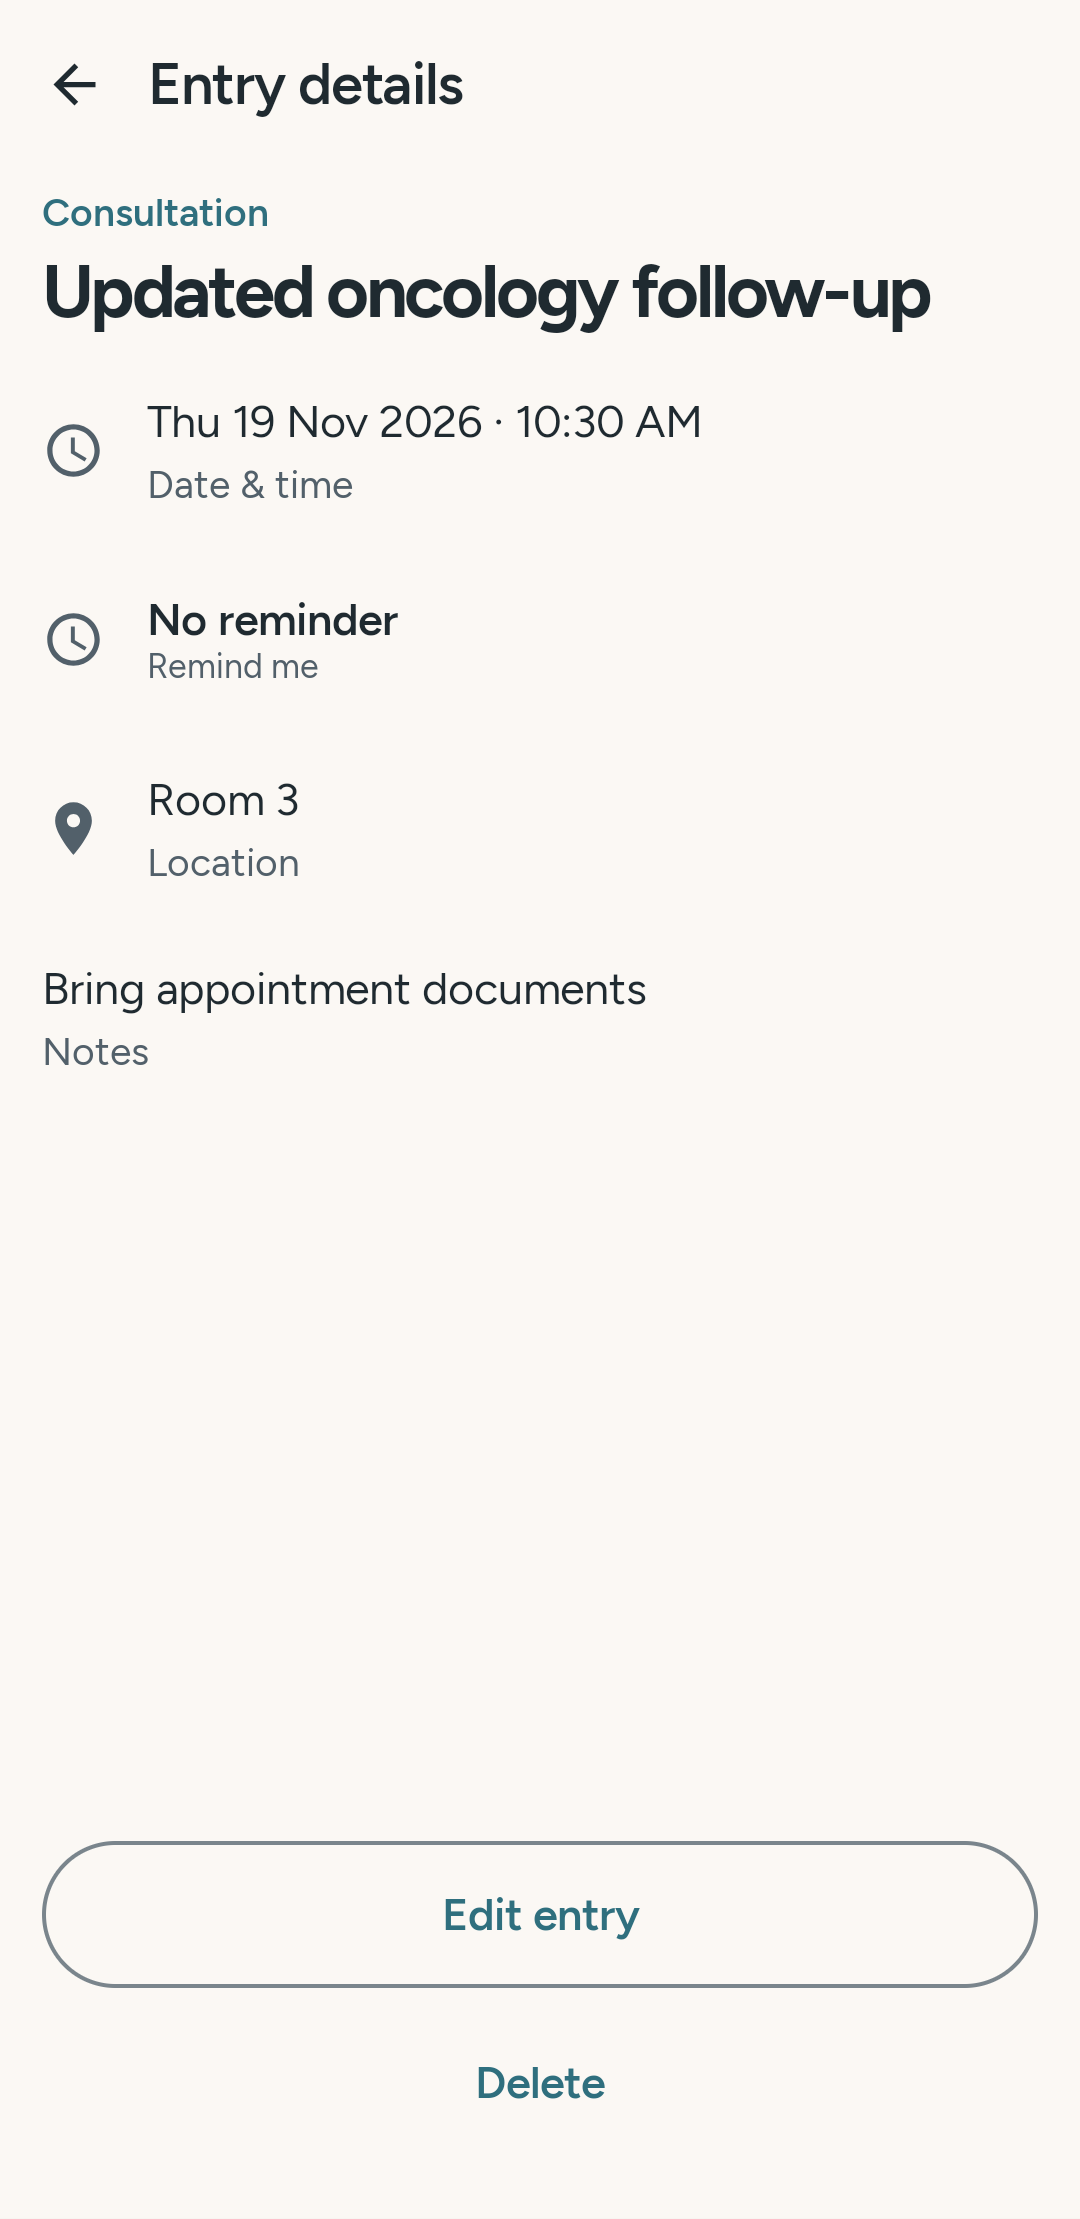
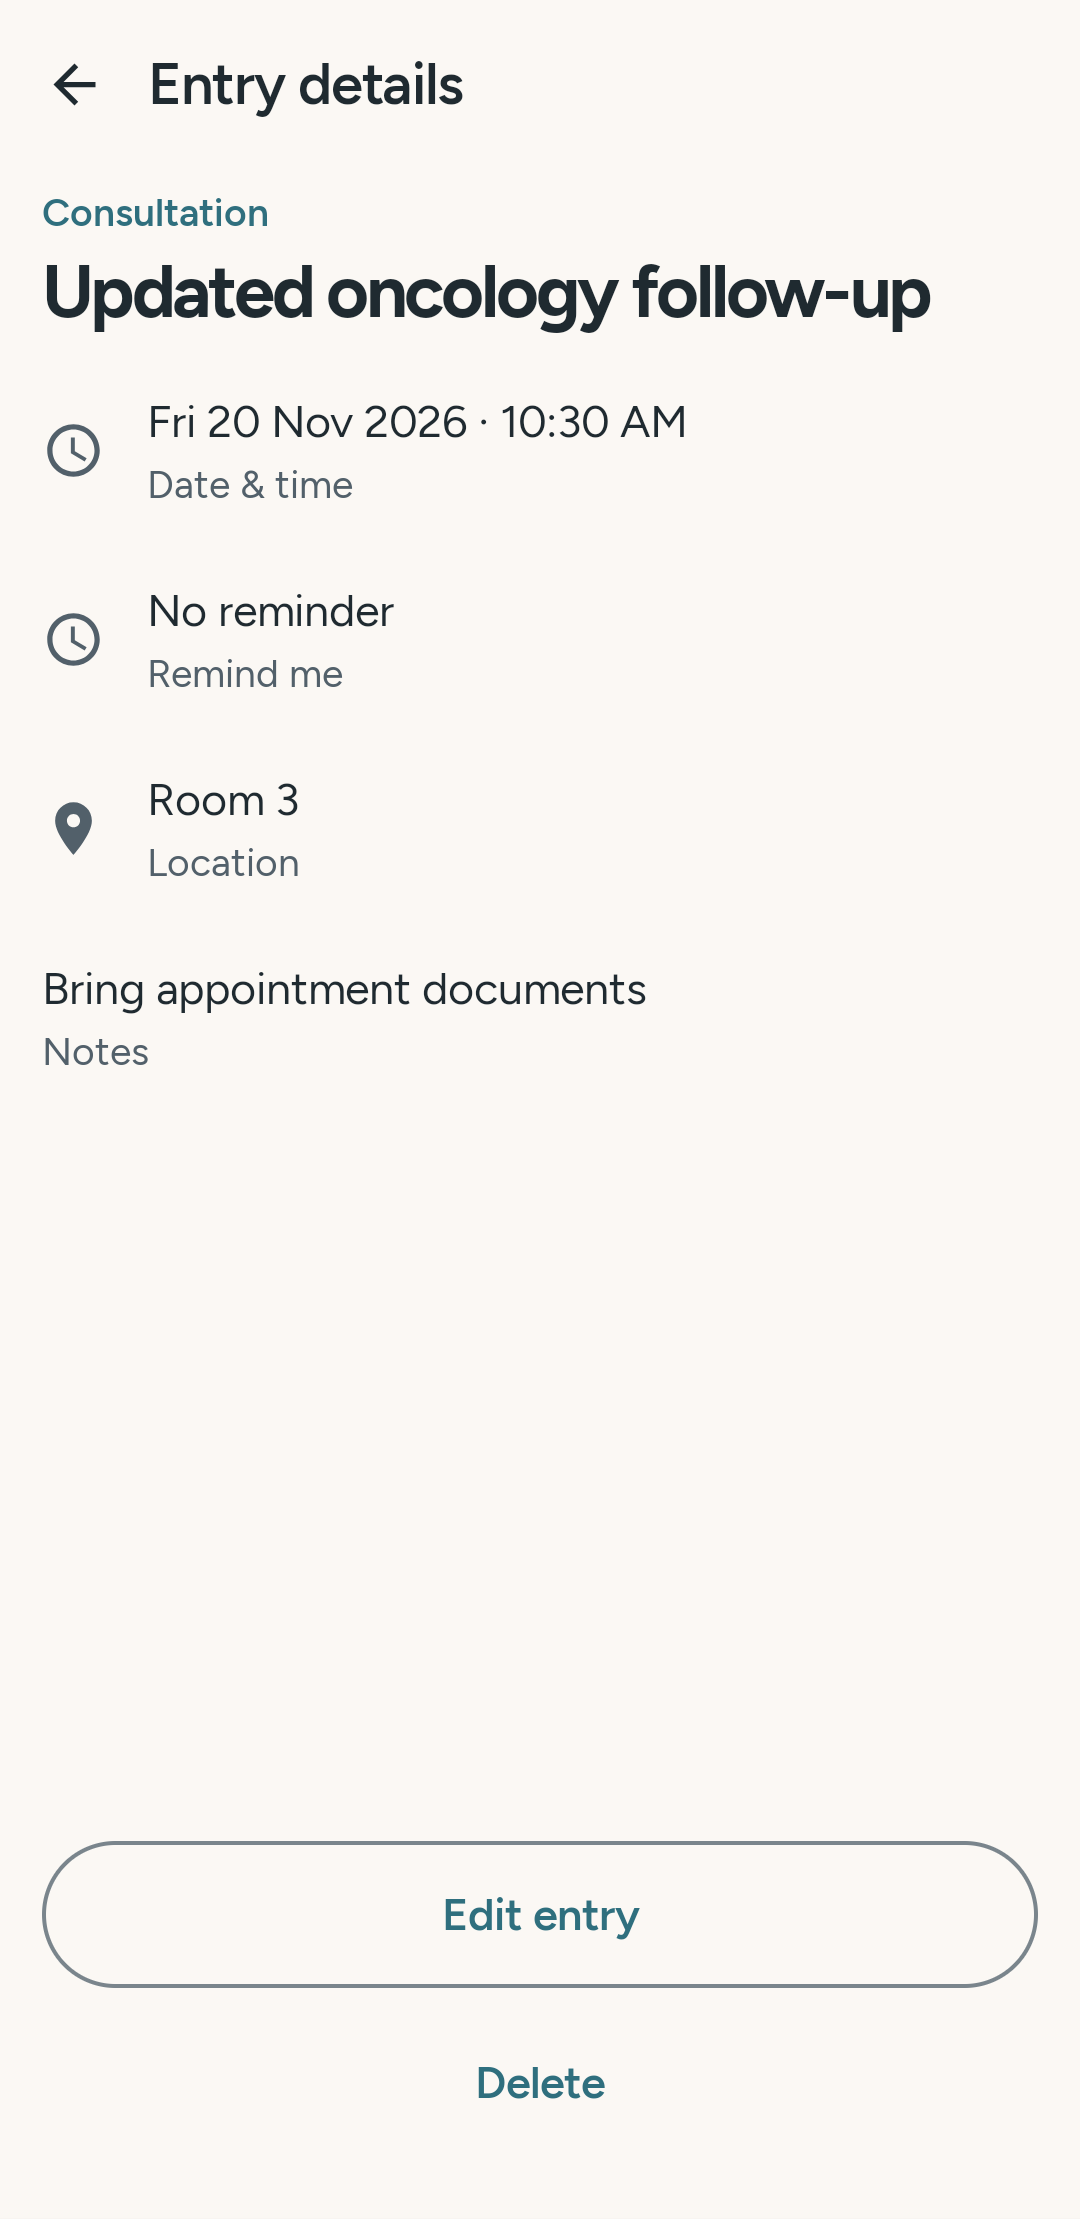
fix: address reminder UI review feedback

Changed region(s): [[0.1833, 0.1866, 0.6417, 0.2177], [0.1222, 0.2488, 0.3667, 0.311]]

diff --git a/app/src/test/java/com/github/se/oncompanion/ui/common/DeleteConfirmationDialogTest.kt b/app/src/test/java/com/github/se/oncompanion/ui/common/DeleteConfirmationDialogTest.kt
@@ -1,3 +1,4 @@
+// Co-authored-by: ChatGPT <noreply@openai.com>
 // Co-authored-by: Claude Code <noreply@anthropic.com>
 
 package com.github.se.oncompanion.ui.common
@@ -107,7 +108,7 @@ class DeleteConfirmationDialogTest {
     setContent()
 
     composeTestRule.onNodeWithTag(TAGS.confirm).assertIsEnabled().performClick()
-    composeTestRule.onNodeWithTag(TAGS.cancel).assertIsEnabled().performClick()
+    composeTestRule.onNodeWithTag(requireNotNull(TAGS.cancel)).assertIsEnabled().performClick()
 
     assertEquals(1, confirms)
     assertEquals(1, cancels)
@@ -128,7 +129,7 @@ class DeleteConfirmationDialogTest {
     setContent(isDeleting = true)
 
     composeTestRule.onNodeWithTag(TAGS.confirm).assertIsNotEnabled().performClick()
-    composeTestRule.onNodeWithTag(TAGS.cancel).assertIsNotEnabled().performClick()
+    composeTestRule.onNodeWithTag(requireNotNull(TAGS.cancel)).assertIsNotEnabled().performClick()
 
     assertEquals(0, confirms)
     assertEquals(0, cancels)
@@ -182,8 +183,9 @@ class DeleteConfirmationDialogTest {
     setContent()
 
     composeTestRule.onNodeWithTag(TAGS.confirm).assertHeightIsEqualTo(56.dp)
-    composeTestRule.onNodeWithTag(TAGS.cancel).assertHeightIsEqualTo(56.dp)
-    val cancel = composeTestRule.onNodeWithTag(TAGS.cancel).getUnclippedBoundsInRoot()
+    composeTestRule.onNodeWithTag(requireNotNull(TAGS.cancel)).assertHeightIsEqualTo(56.dp)
+    val cancel =
+        composeTestRule.onNodeWithTag(requireNotNull(TAGS.cancel)).getUnclippedBoundsInRoot()
     val confirm = composeTestRule.onNodeWithTag(TAGS.confirm).getUnclippedBoundsInRoot()
     assertEquals(cancel.top, confirm.top)
     assertEquals(cancel.right, confirm.left)
@@ -194,7 +196,8 @@ class DeleteConfirmationDialogTest {
     setContent(isDeleting = true)
 
     val spinner = composeTestRule.onNodeWithTag(C.Tag.dialog_progress).getUnclippedBoundsInRoot()
-    val cancel = composeTestRule.onNodeWithTag(TAGS.cancel).getUnclippedBoundsInRoot()
+    val cancel =
+        composeTestRule.onNodeWithTag(requireNotNull(TAGS.cancel)).getUnclippedBoundsInRoot()
     assertEquals(cancel.left, spinner.right)
     assertStyle("Delete", typography.buttonLabel, primaryText)
   }
@@ -206,7 +209,8 @@ class DeleteConfirmationDialogTest {
     setContent(confirmLabel = "Delete it for good", cancelLabel = "Keep this item")
 
     val confirm = composeTestRule.onNodeWithTag(TAGS.confirm).getUnclippedBoundsInRoot()
-    val cancel = composeTestRule.onNodeWithTag(TAGS.cancel).getUnclippedBoundsInRoot()
+    val cancel =
+        composeTestRule.onNodeWithTag(requireNotNull(TAGS.cancel)).getUnclippedBoundsInRoot()
     assertEquals(confirm.bottom, cancel.top)
     assertEquals(confirm.right, cancel.right)
   }
@@ -219,7 +223,8 @@ class DeleteConfirmationDialogTest {
 
     val dialog = composeTestRule.onNodeWithTag(TAGS.dialog).getUnclippedBoundsInRoot()
     val spinner = composeTestRule.onNodeWithTag(C.Tag.dialog_progress).getUnclippedBoundsInRoot()
-    val cancel = composeTestRule.onNodeWithTag(TAGS.cancel).getUnclippedBoundsInRoot()
+    val cancel =
+        composeTestRule.onNodeWithTag(requireNotNull(TAGS.cancel)).getUnclippedBoundsInRoot()
     assertTrue(spinner.left >= dialog.left)
     assertEquals(cancel.left, spinner.right)
     assertTrue(spinner.top >= cancel.top && spinner.bottom <= cancel.bottom)
@@ -232,7 +237,7 @@ class DeleteConfirmationDialogTest {
     setContent(hasError = true, message = "You can't undo this. ".repeat(6))
 
     composeTestRule.onNodeWithTag(TAGS.confirm).assertIsFullyVisible()
-    composeTestRule.onNodeWithTag(TAGS.cancel).assertIsFullyVisible()
+    composeTestRule.onNodeWithTag(requireNotNull(TAGS.cancel)).assertIsFullyVisible()
   }
 
   private companion object {

diff --git a/app/src/test/java/com/github/se/oncompanion/ui/common/LakeDialogTest.kt b/app/src/test/java/com/github/se/oncompanion/ui/common/LakeDialogTest.kt
@@ -1,3 +1,4 @@
+// Co-authored-by: ChatGPT <noreply@openai.com>
 // Co-authored-by: Claude Code <noreply@anthropic.com>
 
 package com.github.se.oncompanion.ui.common
@@ -12,10 +13,12 @@ import androidx.compose.ui.Modifier
 import androidx.compose.ui.graphics.Color
 import androidx.compose.ui.platform.testTag
 import androidx.compose.ui.test.SemanticsNodeInteraction
+import androidx.compose.ui.test.assertCountEquals
 import androidx.compose.ui.test.assertIsDisplayed
 import androidx.compose.ui.test.assertIsFocused
 import androidx.compose.ui.test.assertIsNotEnabled
 import androidx.compose.ui.test.junit4.v2.createComposeRule
+import androidx.compose.ui.test.onAllNodesWithText
 import androidx.compose.ui.test.onNodeWithTag
 import androidx.compose.ui.test.onNodeWithText
 import androidx.compose.ui.test.performClick
@@ -86,7 +89,7 @@ class LakeDialogTest {
 
     composeTestRule.onNodeWithTag(C.Tag.dialog_progress).assertIsDisplayed()
     composeTestRule.onNodeWithTag(TAGS.confirm).assertIsNotEnabled()
-    composeTestRule.onNodeWithTag(TAGS.cancel).assertIsNotEnabled()
+    composeTestRule.onNodeWithTag(requireNotNull(TAGS.cancel)).assertIsNotEnabled()
   }
 
   // E.g. "Stay signed in" when signing out would discard changes not yet saved online
@@ -94,7 +97,7 @@ class LakeDialogTest {
   fun focusCancel_putsTheFocusOnCancelFirst() {
     setContent(focusCancel = true)
 
-    composeTestRule.onNodeWithTag(TAGS.cancel).assertIsFocused()
+    composeTestRule.onNodeWithTag(requireNotNull(TAGS.cancel)).assertIsFocused()
   }
 
   // E.g. a tip to acknowledge, with a checkbox under its message
@@ -119,7 +122,7 @@ class LakeDialogTest {
       }
     }
 
-    composeTestRule.onNodeWithTag(TAGS.cancel).assertDoesNotExist()
+    composeTestRule.onNodeWithTag(requireNotNull(TAGS.cancel)).assertDoesNotExist()
     val message =
         composeTestRule.onNodeWithText("A photo taken sideways is read less well.").bounds()
     val content = composeTestRule.onNodeWithTag("content").bounds()
@@ -131,6 +134,33 @@ class LakeDialogTest {
 
     composeTestRule.onNodeWithTag(TAGS.confirm).performClick()
     assertEquals(1, confirmed)
+  }
+
+  /** A content-only dialog needs neither an empty message nor a placeholder cancel tag. */
+  @Test
+  fun omittedMessageAndCancelTagKeepContentAndActionsUsable() {
+    var cancelled = 0
+    var confirmed = 0
+    composeTestRule.setContent {
+      OncompanionTheme {
+        LakeDialog(
+            title = "Choose a reminder",
+            confirmLabel = "Choose",
+            cancelLabel = "Back",
+            onConfirm = { confirmed++ },
+            onCancel = { cancelled++ },
+            tags = DialogTags(dialog = "dialog", confirm = "confirm"),
+        ) {
+          Text("Reminder choices", Modifier.testTag("content"))
+        }
+      }
+    }
+    composeTestRule.onNodeWithTag("content").assertIsDisplayed()
+    composeTestRule.onAllNodesWithText("", useUnmergedTree = true).assertCountEquals(0)
+    composeTestRule.onNodeWithTag("confirm").performClick()
+    composeTestRule.onNodeWithText("Back").performClick()
+    assertEquals(1, confirmed)
+    assertEquals(1, cancelled)
   }
 
   private fun SemanticsNodeInteraction.bounds() = fetchSemanticsNode().boundsInRoot

diff --git a/app/src/main/java/com/github/se/oncompanion/ui/common/LakeDialog.kt b/app/src/main/java/com/github/se/oncompanion/ui/common/LakeDialog.kt
@@ -29,11 +29,11 @@ import androidx.compose.ui.unit.dp
 import com.github.se.oncompanion.resources.C
 import com.github.se.oncompanion.ui.theme.Spacing
 
-/** The test tags of a [LakeDialog], declared by each feature in `C.kt`. */
+/** Test tags declared in `C.kt`; [cancel] can be omitted when no tag is needed for that action. */
 class DialogTags(
     val dialog: String,
     val confirm: String,
-    val cancel: String,
+    val cancel: String? = null,
     val error: String = "",
 )
 
@@ -48,14 +48,15 @@ class DialogTags(
  * @param isDestructive makes [confirmLabel] red, for an action that can't be undone
  * @param focusCancel puts the focus on [cancelLabel] first, when it is the safer choice (e.g.
  *   staying signed in with changes not yet saved online)
- * @param content shown instead of an empty message, or under [message], scrolling with it, e.g. a
- *   "Don't show this again" checkbox
+ * @param message optional explanation; null shows only the supplied content
+ * @param content shown without a message, or under [message], scrolling with it, e.g. a "Don't show
+ *   this again" checkbox
  */
 @OptIn(ExperimentalMaterial3Api::class)
 @Composable
 fun LakeDialog(
     title: String,
-    message: String,
+    message: String? = null,
     confirmLabel: String,
     cancelLabel: String?,
     onConfirm: () -> Unit,
@@ -91,7 +92,7 @@ fun LakeDialog(
             Modifier.weight(1f, fill = false).verticalScroll(rememberScrollState()),
             verticalArrangement = Arrangement.spacedBy(Spacing.md),
         ) {
-          if (message.isNotEmpty())
+          if (message != null)
               Text(
                   message,
                   style = MaterialTheme.typography.bodyMedium,
@@ -120,7 +121,10 @@ fun LakeDialog(
                     onClick = onCancel,
                     style = LakeButtonStyle.Text,
                     enabled = !isWorking,
-                    modifier = Modifier.testTag(tags.cancel).focusRequester(cancelFocus),
+                    modifier =
+                        (tags.cancel?.let { Modifier.testTag(it) } ?: Modifier).focusRequester(
+                            cancelFocus
+                        ),
                 )
               } else Spacer(Modifier)
             },

diff --git a/app/src/test/java/com/github/se/oncompanion/ui/appointment/AppointmentDetailScreenTest.kt b/app/src/test/java/com/github/se/oncompanion/ui/appointment/AppointmentDetailScreenTest.kt
@@ -26,6 +26,8 @@ import com.github.se.oncompanion.ui.SMALL_LANDSCAPE_PHONE
 import com.github.se.oncompanion.ui.assertIsFullyVisible
 import com.github.se.oncompanion.ui.auth.FakeAuthRepository
 import com.github.se.oncompanion.ui.common.DeletePhase
+import com.github.se.oncompanion.ui.textLayout
+import com.github.se.oncompanion.ui.theme.OncompanionTheme
 import java.time.*
 import java.util.Locale
 import kotlinx.coroutines.test.runTest
@@ -61,6 +63,32 @@ class AppointmentDetailScreenTest {
           .onNodeWithTag(C.Tag.appointment_reminder_detail)
           .performScrollTo()
           .assertTextContains(label)
+    }
+  }
+
+  /** Reminder and location inherit the same standard headline/supporting text hierarchy. */
+  @Test
+  fun reminderTypographyMatchesTheOtherDetailRows() {
+    var dark by mutableStateOf(false)
+    compose.setContent {
+      OncompanionTheme(darkTheme = dark) {
+        AppointmentDetailContent(
+            AppointmentDetailUiState.Loaded(appointment.copy(reminder = AppointmentReminder.NONE)),
+            {},
+            {},
+        )
+      }
+    }
+    for (theme in listOf(false, true)) {
+      compose.runOnIdle { dark = theme }
+      for ((reminder, reference) in listOf("No reminder" to "Room 3", "Remind me" to "Location")) {
+        val actual =
+            compose.onNodeWithText(reminder, useUnmergedTree = true).textLayout().layoutInput.style
+        val expected =
+            compose.onNodeWithText(reference, useUnmergedTree = true).textLayout().layoutInput.style
+        assertEquals(expected.fontSize, actual.fontSize)
+        assertEquals(expected.fontWeight, actual.fontWeight)
+      }
     }
   }
 

diff --git a/app/src/main/java/com/github/se/oncompanion/ui/appointment/AppointmentDetailScreen.kt b/app/src/main/java/com/github/se/oncompanion/ui/appointment/AppointmentDetailScreen.kt
@@ -230,18 +230,8 @@ private fun AppointmentFields(
       leadingContent = { Icon(painterResource(R.drawable.ic_schedule), null) },
   )
   ListItem(
-      headlineContent = {
-        Text(
-            stringResource(appointment.reminder.labelResource()),
-            style = MaterialTheme.typography.titleMedium,
-        )
-      },
-      supportingContent = {
-        Text(
-            stringResource(R.string.appointment_reminder),
-            style = MaterialTheme.typography.bodySmall,
-        )
-      },
+      headlineContent = { Text(stringResource(appointment.reminder.labelResource())) },
+      supportingContent = { Text(stringResource(R.string.appointment_reminder)) },
       leadingContent = { Icon(painterResource(R.drawable.ic_schedule), null) },
       modifier = Modifier.testTag(C.Tag.appointment_reminder_detail),
   )

diff --git a/app/src/main/java/com/github/se/oncompanion/ui/appointment/AppointmentReminderField.kt b/app/src/main/java/com/github/se/oncompanion/ui/appointment/AppointmentReminderField.kt
@@ -59,12 +59,15 @@ internal fun AppointmentReminderField(
   if (open && enabled) {
     LakeDialog(
         title = stringResource(R.string.appointment_reminder),
-        message = "",
         confirmLabel = stringResource(R.string.appointment_cancel),
         cancelLabel = null,
         onConfirm = { open = false },
         onCancel = { open = false },
-        tags = DialogTags(C.Tag.appointment_reminder_dialog, C.Tag.appointment_reminder_cancel, ""),
+        tags =
+            DialogTags(
+                dialog = C.Tag.appointment_reminder_dialog,
+                confirm = C.Tag.appointment_reminder_cancel,
+            ),
     ) {
       // The shared dialog scrolls its content without hiding Cancel in landscape.
       Column(
